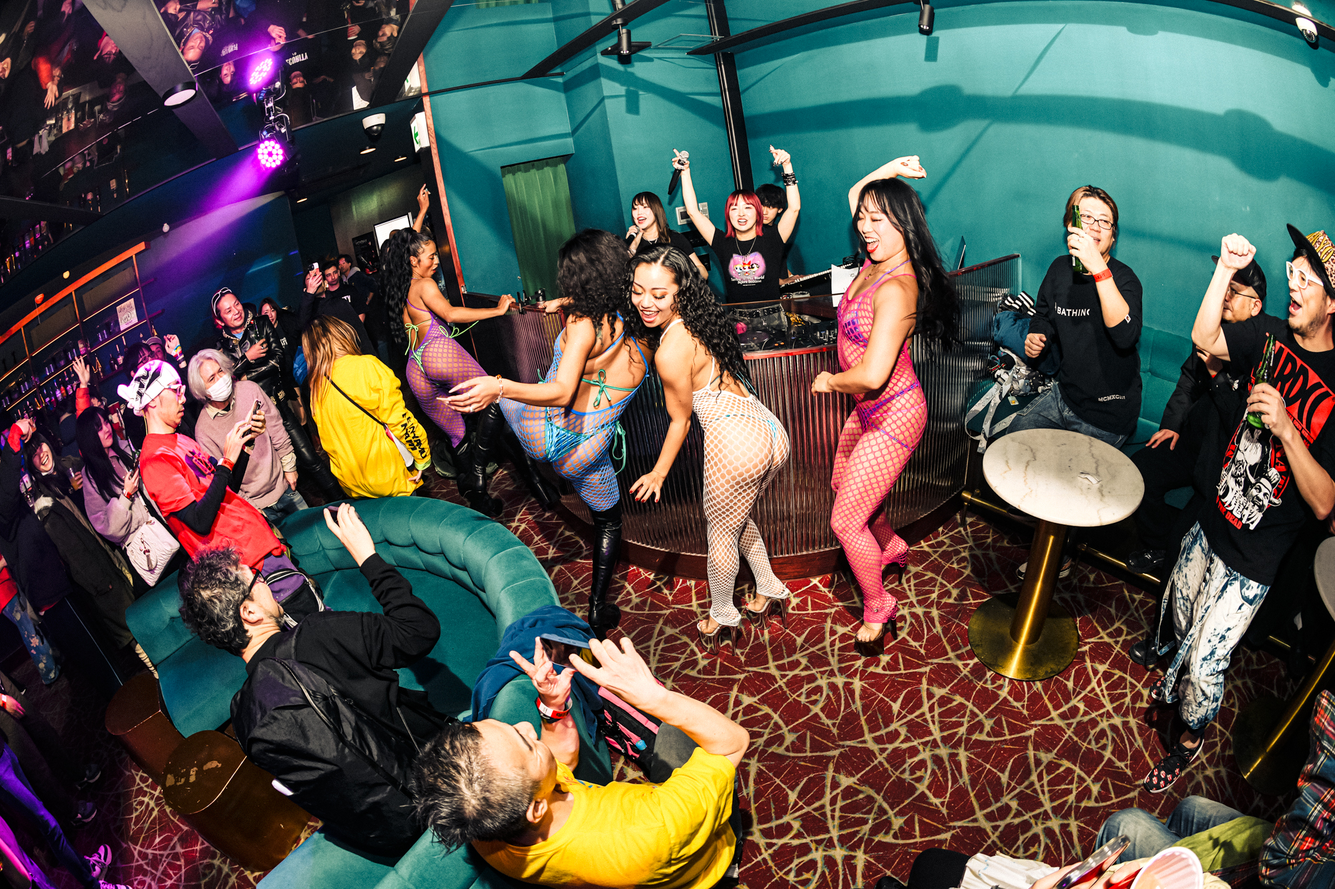
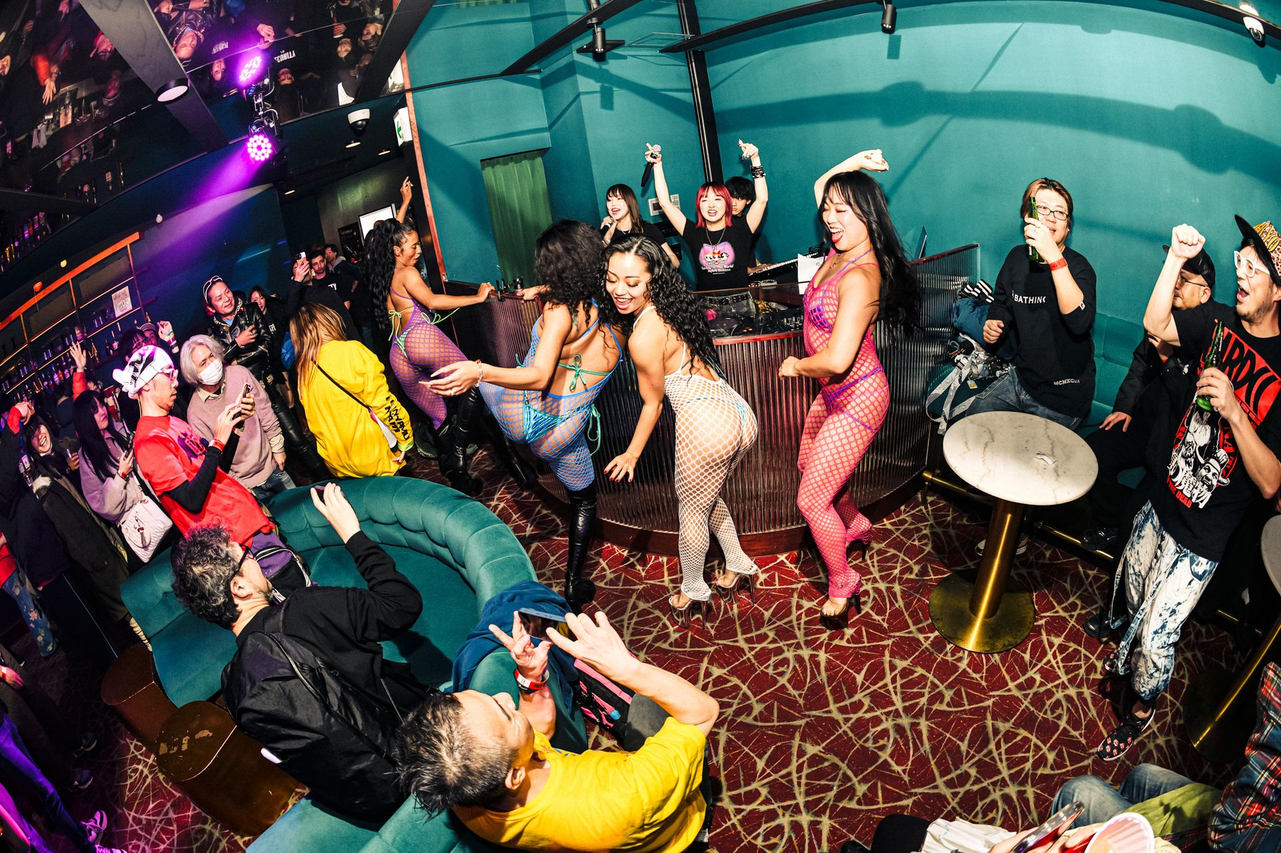
FV背景画像を圧縮（3MB→578KB）しプリロード追加

diff --git a/src/screens/Top/sections/GroupWrapper/GroupWrapper.jsx b/src/screens/Top/sections/GroupWrapper/GroupWrapper.jsx
@@ -83,27 +83,27 @@ export const GroupWrapper = () => {
 
   return (
     <div className="relative self-stretch w-full min-h-0 lg:min-h-[1000px] flex flex-col items-center px-1 md:px-8 pb-4 md:pb-0">
-      {/* チップの模様（デスクトップのみ表示） */}
+        {/* チップの模様（デスクトップのみ表示） */}
       <div className="hidden lg:block absolute inset-0 overflow-hidden pointer-events-none">
-        {chipPositions.map((pos, i) => (
-          <div
+          {chipPositions.map((pos, i) => (
+            <div
             key={`chip-floormap-${i}`}
             className="absolute"
-            style={{
-              left: `${pos.left}px`,
-              top: `${pos.top}px`,
-              width: `${pos.chip.w * 0.6}px`,
-              height: `${pos.chip.h * 0.6}px`,
-              backgroundImage: `url(${pos.chip.img})`,
-              backgroundSize: 'cover',
-              backgroundPosition: '50% 50%',
-              opacity: 0.08,
-              transform: `rotate(${pos.rotation}deg)`,
-              zIndex: 0,
-            }}
-          />
-        ))}
-      </div>
+              style={{
+                left: `${pos.left}px`,
+                top: `${pos.top}px`,
+                width: `${pos.chip.w * 0.6}px`,
+                height: `${pos.chip.h * 0.6}px`,
+                backgroundImage: `url(${pos.chip.img})`,
+                backgroundSize: 'cover',
+                backgroundPosition: '50% 50%',
+                opacity: 0.08,
+                transform: `rotate(${pos.rotation}deg)`,
+                zIndex: 0,
+              }}
+            />
+          ))}
+        </div>
 
       <div className="relative w-full max-w-[1440px]">
         {/* セクションタイトル */}

diff --git a/src/screens/Screen7/sections/Frame18/Frame18.jsx b/src/screens/Screen7/sections/Frame18/Frame18.jsx
@@ -74,19 +74,19 @@ export const Frame18 = () => {
             <div className="text-white text-lg">キャスト情報がありません</div>
           </div>
         ) : (
-          <div className="grid grid-cols-2 md:grid-cols-3 lg:grid-cols-4 gap-3 md:gap-6 lg:gap-8 mb-12 md:mb-16">
-            {currentCards.map((card) => (
-              <div key={card.id} className="w-full">
-                <TalentPc
-                  s={card.s}
+        <div className="grid grid-cols-2 md:grid-cols-3 lg:grid-cols-4 gap-3 md:gap-6 lg:gap-8 mb-12 md:mb-16">
+          {currentCards.map((card) => (
+            <div key={card.id} className="w-full">
+              <TalentPc
+                s={card.s}
                   name={card.name}
                   nameEn={card.nameEn}
                   description={card.description}
                   instagramUrl={card.instagramUrl}
-                />
-              </div>
-            ))}
-          </div>
+              />
+            </div>
+          ))}
+        </div>
         )}
 
         {/* ページネーション */}

diff --git a/src/screens/Top/sections/FrameWrapper/FrameWrapper.jsx b/src/screens/Top/sections/FrameWrapper/FrameWrapper.jsx
@@ -212,7 +212,7 @@ export const FrameWrapper = () => {
           <div className="hidden lg:block absolute top-0 left-0 w-full [font-family:'Princess_Sofia',Helvetica] font-normal text-[#ffffff33] text-9xl text-left tracking-[0] leading-[normal] pointer-events-none z-0">
             {language === 'ja' ? 'パフォーマンス' : 'Performance'}
           </div>
-
+          
           {/* セクションタイトル */}
           <div className="pt-4 lg:pt-[116px] flex flex-col items-center gap-2 md:gap-3 relative z-10 px-4" data-scroll="fade-up">
             <div className="[text-shadow:0px_4px_10px_#faffb5cc] [-webkit-text-stroke:1px_#d4af37c2] [font-family:'Playfair_Display',Helvetica] font-normal text-white text-2xl md:text-4xl lg:text-[64px] text-center tracking-[0] leading-[normal]">

diff --git a/src/components/Header/Header.jsx b/src/components/Header/Header.jsx
@@ -137,7 +137,7 @@ export const Header = ({ className = "" }) => {
                       setIsLanguageOpen(false);
                     }}
                   >
-                    日本語
+                      日本語
                   </button>
                   <button 
                     className="w-full px-3 py-2 text-left transition-colors hover:bg-[#00c9a7] hover:text-black"
@@ -153,7 +153,7 @@ export const Header = ({ className = "" }) => {
                       setIsLanguageOpen(false);
                     }}
                   >
-                    English
+                      English
                   </button>
                 </div>
               )}

diff --git a/index.html b/index.html
@@ -212,6 +212,9 @@
     </style>
     <link href="tailwind.css" rel="stylesheet" />
     
+    <!-- FV背景画像のプリロード（最優先） -->
+    <link rel="preload" href="/img/hero-bg.jpg" as="image" fetchpriority="high" />
+    
     <!-- フロアマップ用チップ画像のプリロード -->
     <link rel="preload" href="/img/3-1.png" as="image" />
     <link rel="preload" href="/img/1.png" as="image" />

diff --git a/src/hooks/useScrollAnimation.js b/src/hooks/useScrollAnimation.js
@@ -80,3 +80,4 @@ export const useScrollAnimationAll = (selector = '[data-scroll]', options = {}) 
 
 
 
+

diff --git a/src/components/ScrollAnimationProvider/index.js b/src/components/ScrollAnimationProvider/index.js
@@ -17,3 +17,4 @@ export { ScrollAnimationProvider } from './ScrollAnimationProvider';
 
 
 
+

diff --git a/src/components/ScrollAnimationProvider/ScrollAnimationProvider.jsx b/src/components/ScrollAnimationProvider/ScrollAnimationProvider.jsx
@@ -85,3 +85,4 @@ export const ScrollAnimationProvider = ({ children }) => {
 
 
 
+

diff --git a/src/screens/PrivacyPolicy/index.js b/src/screens/PrivacyPolicy/index.js
@@ -1,3 +1,4 @@
 export { PrivacyPolicy } from "./PrivacyPolicy";
 
 
+

diff --git a/src/screens/DrinkMenu/index.js b/src/screens/DrinkMenu/index.js
@@ -17,3 +17,4 @@ export { DrinkMenu } from "./DrinkMenu";
 
 
 
+

diff --git a/src/screens/PrivacyPolicy/PrivacyPolicy.jsx b/src/screens/PrivacyPolicy/PrivacyPolicy.jsx
@@ -158,3 +158,4 @@ export const PrivacyPolicy = () => {
 };
 
 
+

diff --git a/src/components/Header/index.js b/src/components/Header/index.js
@@ -17,3 +17,4 @@ export { Header } from "./Header";
 
 
 
+
